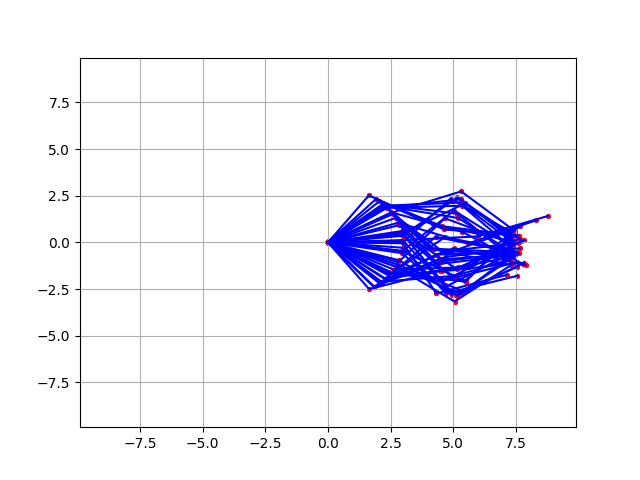
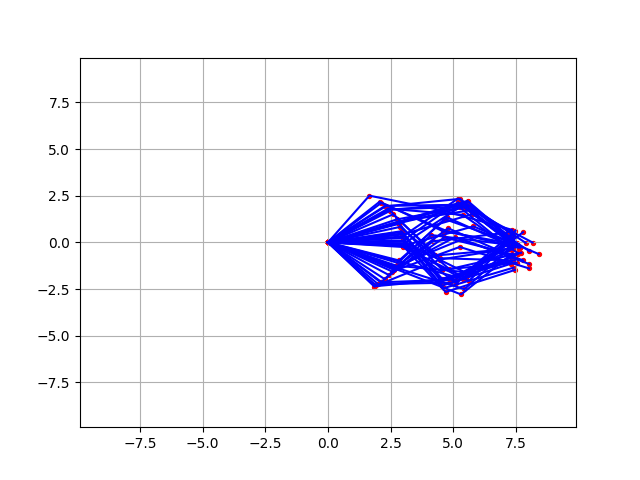
visualization of latent space changed

Changed region(s): [[0.5312, 0.375, 0.875, 0.6562]]

diff --git a/src/robotsim_test.py b/src/robotsim_test.py
@@ -35,19 +35,24 @@ if __name__ == '__main__':
     variational_beta = config['variational_beta']
     use_gpu = config['use_gpu']
     PATH = config['weight_dir']
-
-    dof = '3DOF'
+    dof = config['dof']
 
     ####################################################################################################################
     # LOAD DATASET
     ####################################################################################################################
 
-    robot = robotsim.RobotSim2D(3, [3, 3, 3])
-    # robot = robotsim.RobotSim2D(2, [3, 2])
-
-    # INPUT: 3 joint angles
-    # OUTPUT: (x,y) coordinate of end-effector
-    dataset = RobotSimDataset(robot, 100)
+    if dof == '2DOF':
+        robot = robotsim.RobotSim2D(2, [3, 2])
+        # INPUT: 2 joint angles
+        # OUTPUT: (x,y) coordinate of end-effector
+        dataset = RobotSimDataset(robot, 1000)
+    elif dof == '3DOF':
+        robot = robotsim.RobotSim2D(3, [3, 3, 3])
+        # INPUT: 3 joint angles
+        # OUTPUT: (x,y) coordinate of end-effector
+        dataset = RobotSimDataset(robot, 100)
+    else:
+        raise Exception('Number of degrees of freedom ot supported')
 
     # train test split
     train_dataset, test_dataset = torch.utils.data.random_split(dataset, [700000, 300000])
@@ -63,11 +68,8 @@ if __name__ == '__main__':
     device = torch.device("cuda:0" if use_gpu and torch.cuda.is_available() else "cpu")
     cvae = cvae.to(device)
 
-    # cvae.load_weights(PATH)
-    epoch, loss = cvae.load_checkpoint(PATH=config['checkpoint_dir'] + 'CVAE_2DOF_epoch_10')
-
-    # print('EPOCH: ', epoch)
-    # print('LOSS: ', loss)
+    cvae.load_weights(PATH)
+    # epoch, loss = cvae.load_checkpoint(PATH=config['checkpoint_dir'] + 'CVAE_2DOF_epoch_10')
 
     # set to evaluation mode
     cvae.eval()
@@ -109,9 +111,16 @@ if __name__ == '__main__':
 
     print('---------------SAMPLE GENERATION---------------')
 
-    # Specify initial joint angles
-    # input = torch.Tensor([[-np.pi / 4, np.pi / 2, -np.pi / 4]])
-    input = torch.Tensor([[-np.pi / 4, np.pi / 2]])
+    input = None
+    if dof == '2DOF':
+        # Specify initial joint angles
+        # input = torch.Tensor([[-np.pi / 4, np.pi / 2]])
+        input = torch.Tensor([[-np.pi / 3, np.pi / 3]])
+    elif dof == '3DOF':
+        # Specify initial joint angles
+        input = torch.Tensor([[-np.pi / 4, np.pi / 2, -np.pi / 4]])
+    else:
+        raise Exception('Number of degrees of freedom ot supported')
 
     # compute resulting tcp coordinates
     tcp = robot.forward(joint_states=input.numpy())

diff --git a/src/robotsim_train.py b/src/robotsim_train.py
@@ -38,19 +38,24 @@ if __name__ == '__main__':
     variational_beta = config['variational_beta']
     use_gpu = config['use_gpu']
     PATH = config['weight_dir']
-
-    dof = '3DOF'
+    dof = config['dof']
 
     ####################################################################################################################
     # LOAD DATASET
     ####################################################################################################################
 
-    robot = robotsim.RobotSim2D(3, [3, 3, 3])
-    # robot = robotsim.RobotSim2D(2, [3, 2])
-
-    # INPUT: 3 joint angles
-    # OUTPUT: (x,y) coordinate of end-effector
-    dataset = RobotSimDataset(robot, 100)
+    if dof == '2DOF':
+        robot = robotsim.RobotSim2D(2, [3, 2])
+        # INPUT: 2 joint angles
+        # OUTPUT: (x,y) coordinate of end-effector
+        dataset = RobotSimDataset(robot, 1000)
+    elif dof == '3DOF':
+        robot = robotsim.RobotSim2D(3, [3, 3, 3])
+        # INPUT: 3 joint angles
+        # OUTPUT: (x,y) coordinate of end-effector
+        dataset = RobotSimDataset(robot, 100)
+    else:
+        raise Exception('Number of degrees of freedom ot supported')
 
     # train test split
     train_dataset, val_dataset, test_dataset = torch.utils.data.random_split(dataset, [700000, 150000, 150000])

diff --git a/src/models/CVAE.py b/src/models/CVAE.py
@@ -125,6 +125,7 @@ class CVAE(nn.Module):
         return x_recon, latent_mu, latent_logvar
 
     def latent_sample(self, mu, logvar):
+        '''
         if self.training:
             # the reparameterization trick
             std = logvar.mul(0.5).exp_()
@@ -132,6 +133,12 @@ class CVAE(nn.Module):
             return eps.mul(std).add_(mu)
         else:
             return mu
+        '''
+        # the reparameterization trick
+        std = logvar.mul(0.5).exp_()
+        eps = torch.empty_like(std).normal_()
+        return eps.mul(std).add_(mu)
+
 
     def visualise_z(self, x, condition):
         if self.classification:
